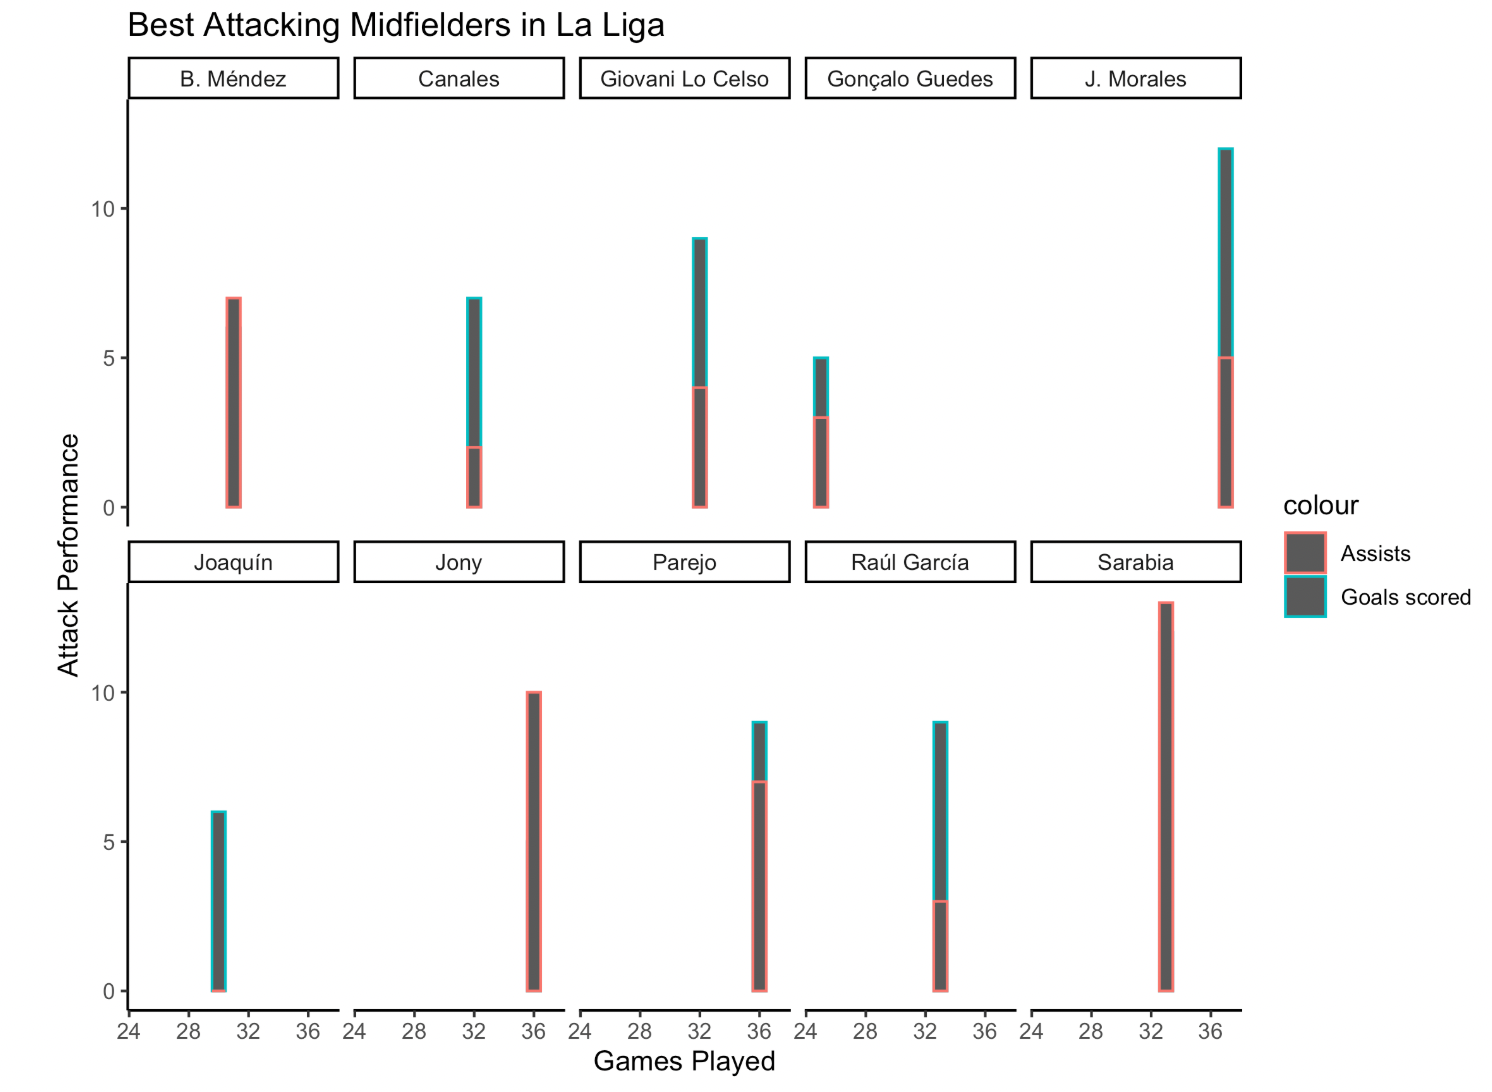
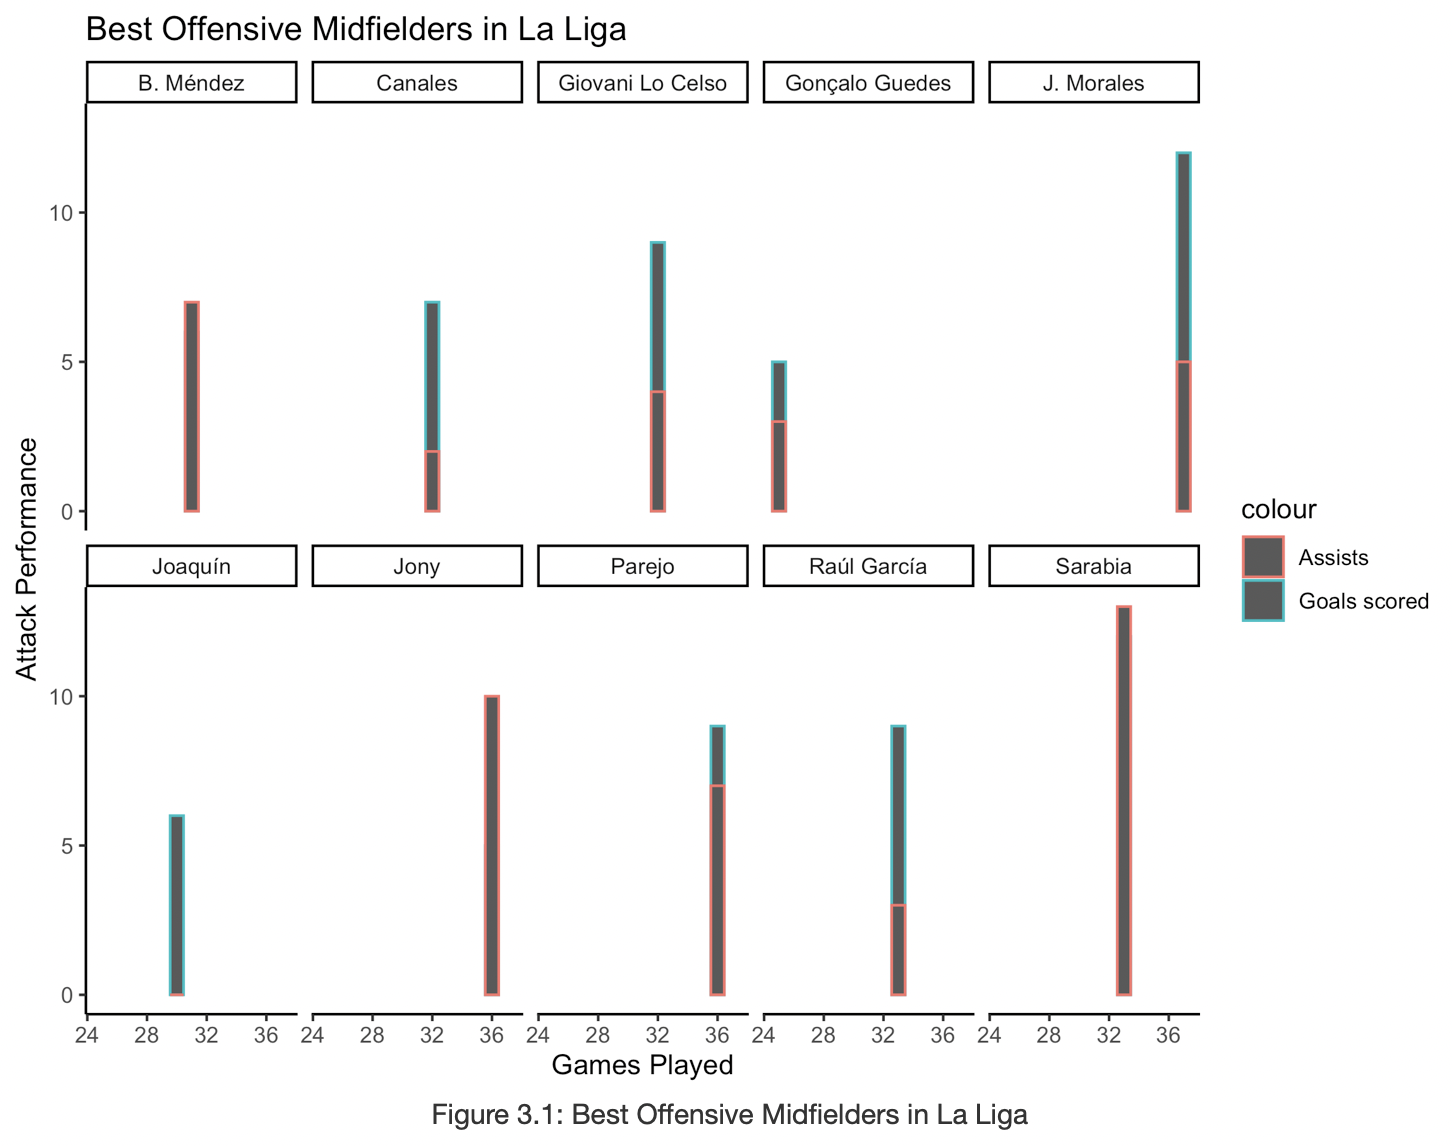
Added changes to figures and theme of the r-code chunks

diff --git a/Presentation-ETC5513.html b/Presentation-ETC5513.html
@@ -31,28 +31,55 @@ class: center, middle, inverse, title-slide
 
 
 
-```
-## ── Attaching packages ─────────────────────────────────────── tidyverse 1.3.1 ──
-```
 
-```
-## ✔ ggplot2 3.3.6     ✔ purrr   0.3.4
-## ✔ tibble  3.1.7     ✔ dplyr   1.0.9
-## ✔ tidyr   1.2.0     ✔ stringr 1.4.0
-## ✔ readr   2.1.2     ✔ forcats 0.5.1
-```
 
-```
-## ── Conflicts ────────────────────────────────────────── tidyverse_conflicts() ──
-## ✖ dplyr::filter() masks stats::filter()
-## ✖ dplyr::lag()    masks stats::lag()
-```
-
----
 class: center, middle
 # The Midfielder
 
 &lt;img src="figs/Midfielder-image.jpg" width="100%" style="display: block; margin: auto;" /&gt;
+
+Image Source : Getty Images 
+
+---
+class:left, top 
+# Role 
+
+* Act as link between the **Strikers** and the **Defenders**. 
+
+* Control the flow of the game.
+
+* Effective communicator 
+
+&lt;img src="figs/mid-pos.png" width="35%" style="display: block; margin: auto;" /&gt;
+
+---
+
+class:left, top
+
+#Best Offensive Midfielders in La Liga
+
+&lt;img src="figs/Attack_M_Table.png" width="80%" height="80%" style="display: block; margin: auto;" /&gt;
+---
+
+class:left,top
+
+#Best Offensive Midfielders in La Liga
+
+&lt;img src="figs/Attack_M_Graph.png" width="80%" height="70%" style="display: block; margin: auto;" /&gt;
+---
+
+class:left,top
+
+#Best Defensive Midfielders in La Liga
+
+&lt;img src="figs/Defence_M_Table.png" width="80%" height="80%" style="display: block; margin: auto;" /&gt;
+---
+
+class:left,top
+
+#Best Defensive Midfielders in La Liga
+
+&lt;img src="figs/Defence_M_Graph.png" width="80%" height="70%" style="display: block; margin: auto;" /&gt;
     </textarea>
 <style data-target="print-only">@media screen {.remark-slide-container{display:block;}.remark-slide-scaler{box-shadow:none;}}</style>
 <script src="https://remarkjs.com/downloads/remark-latest.min.js"></script>
